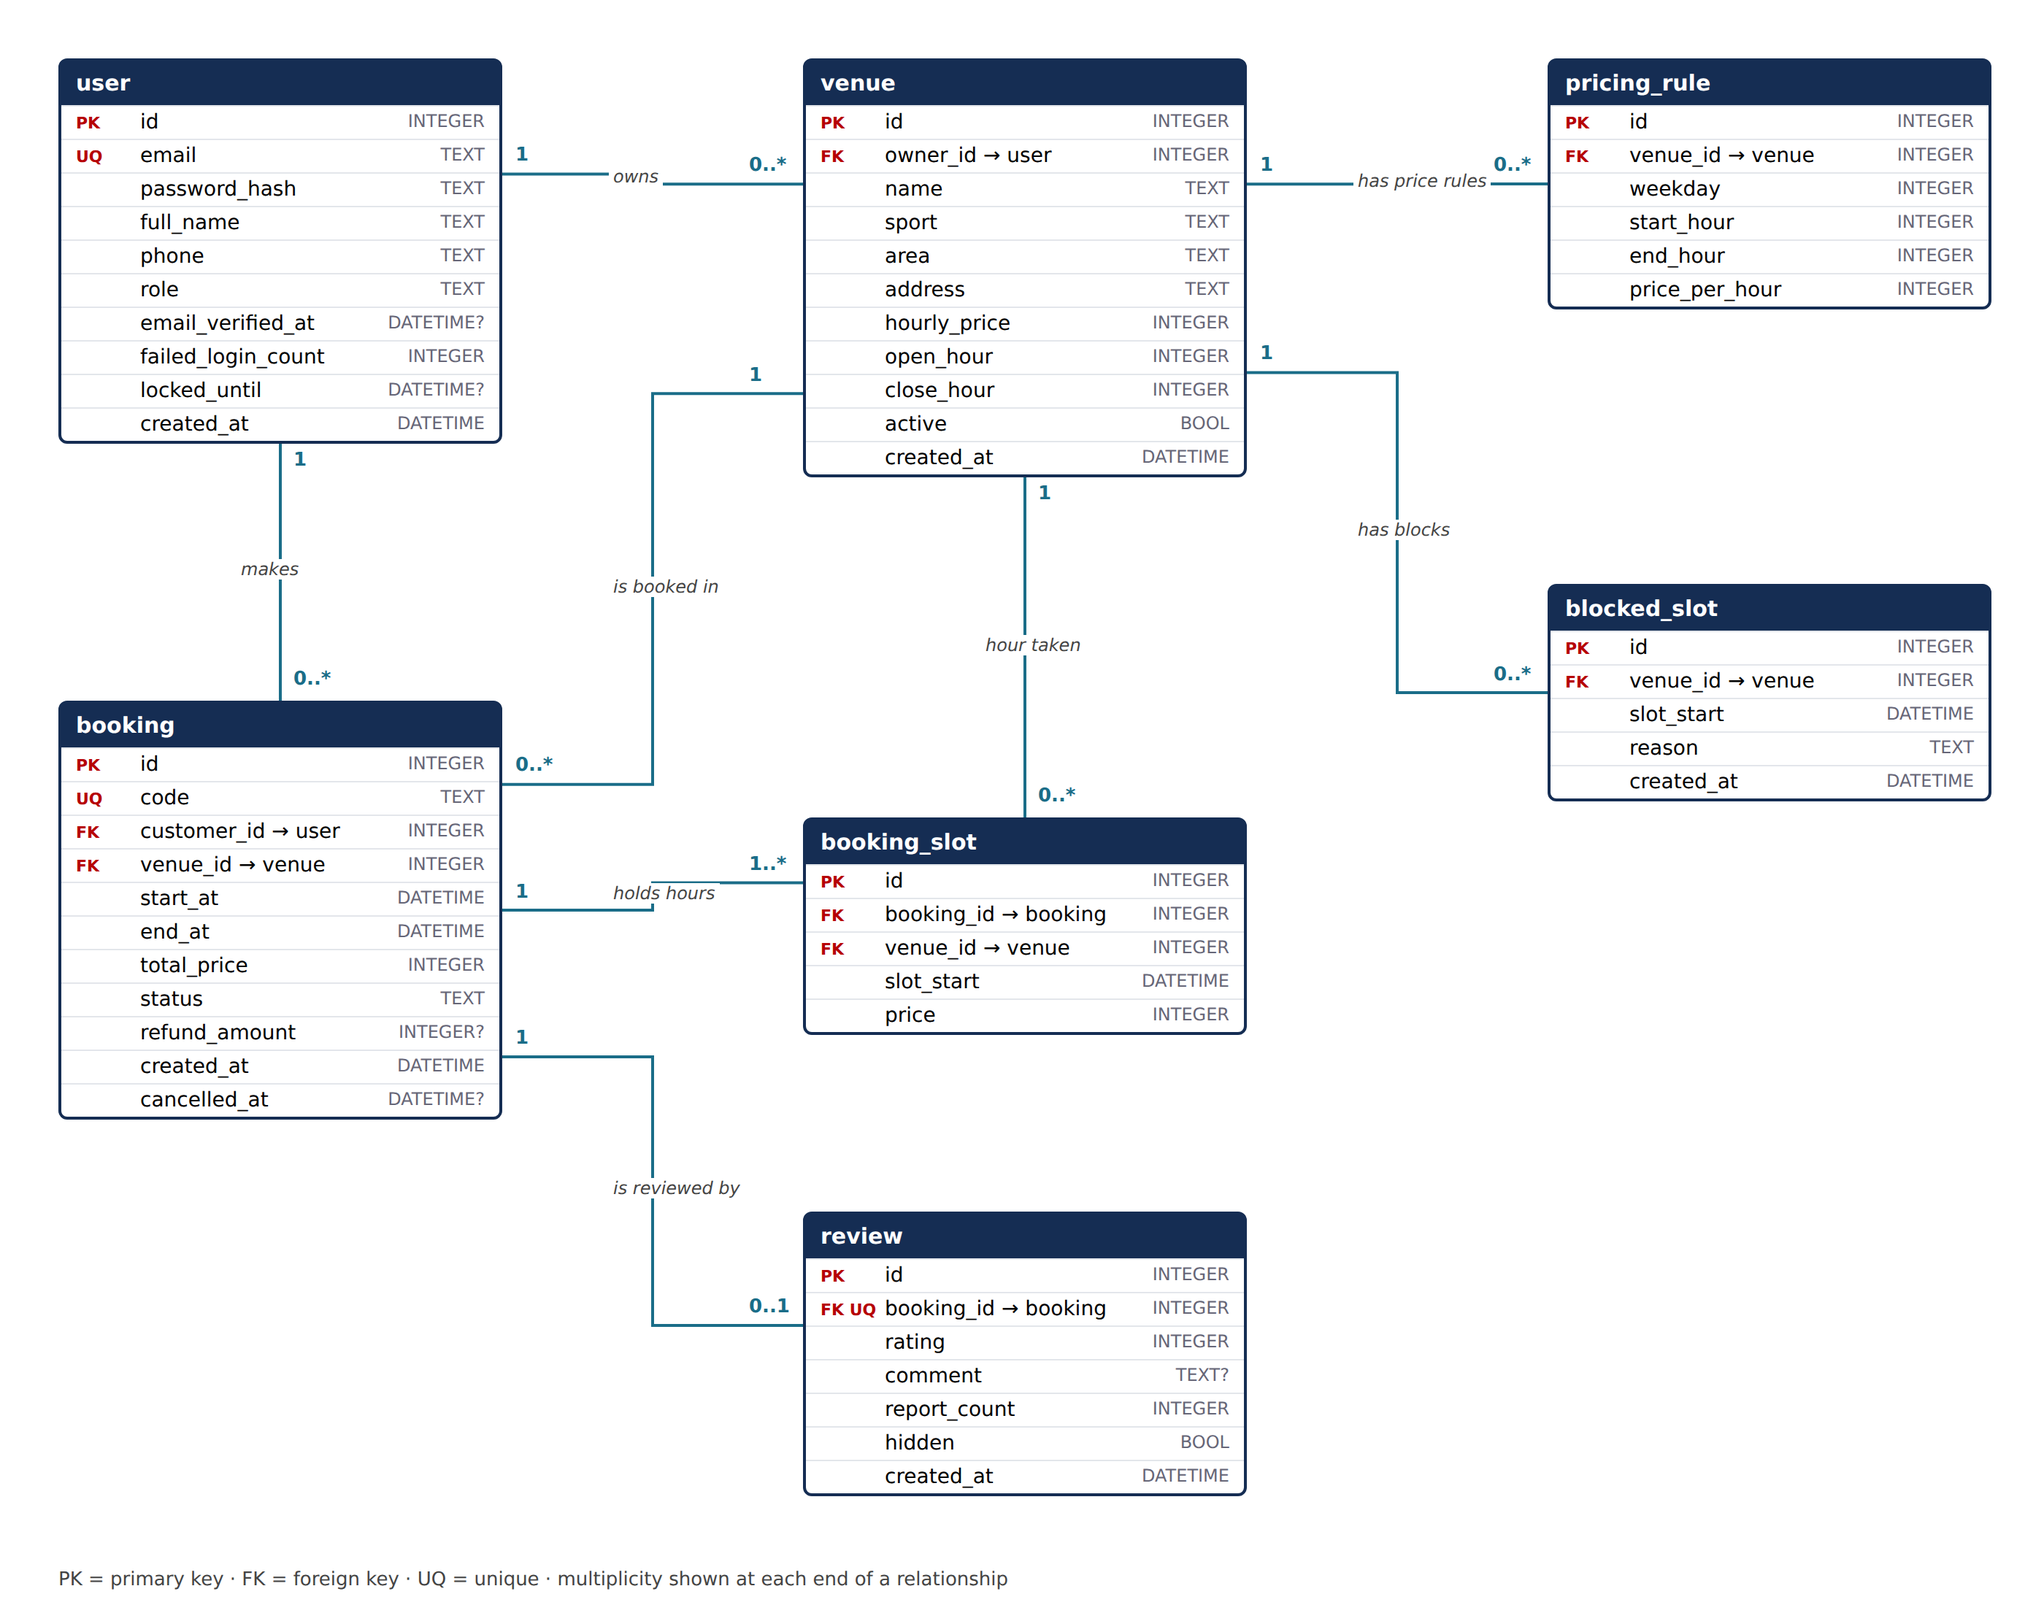
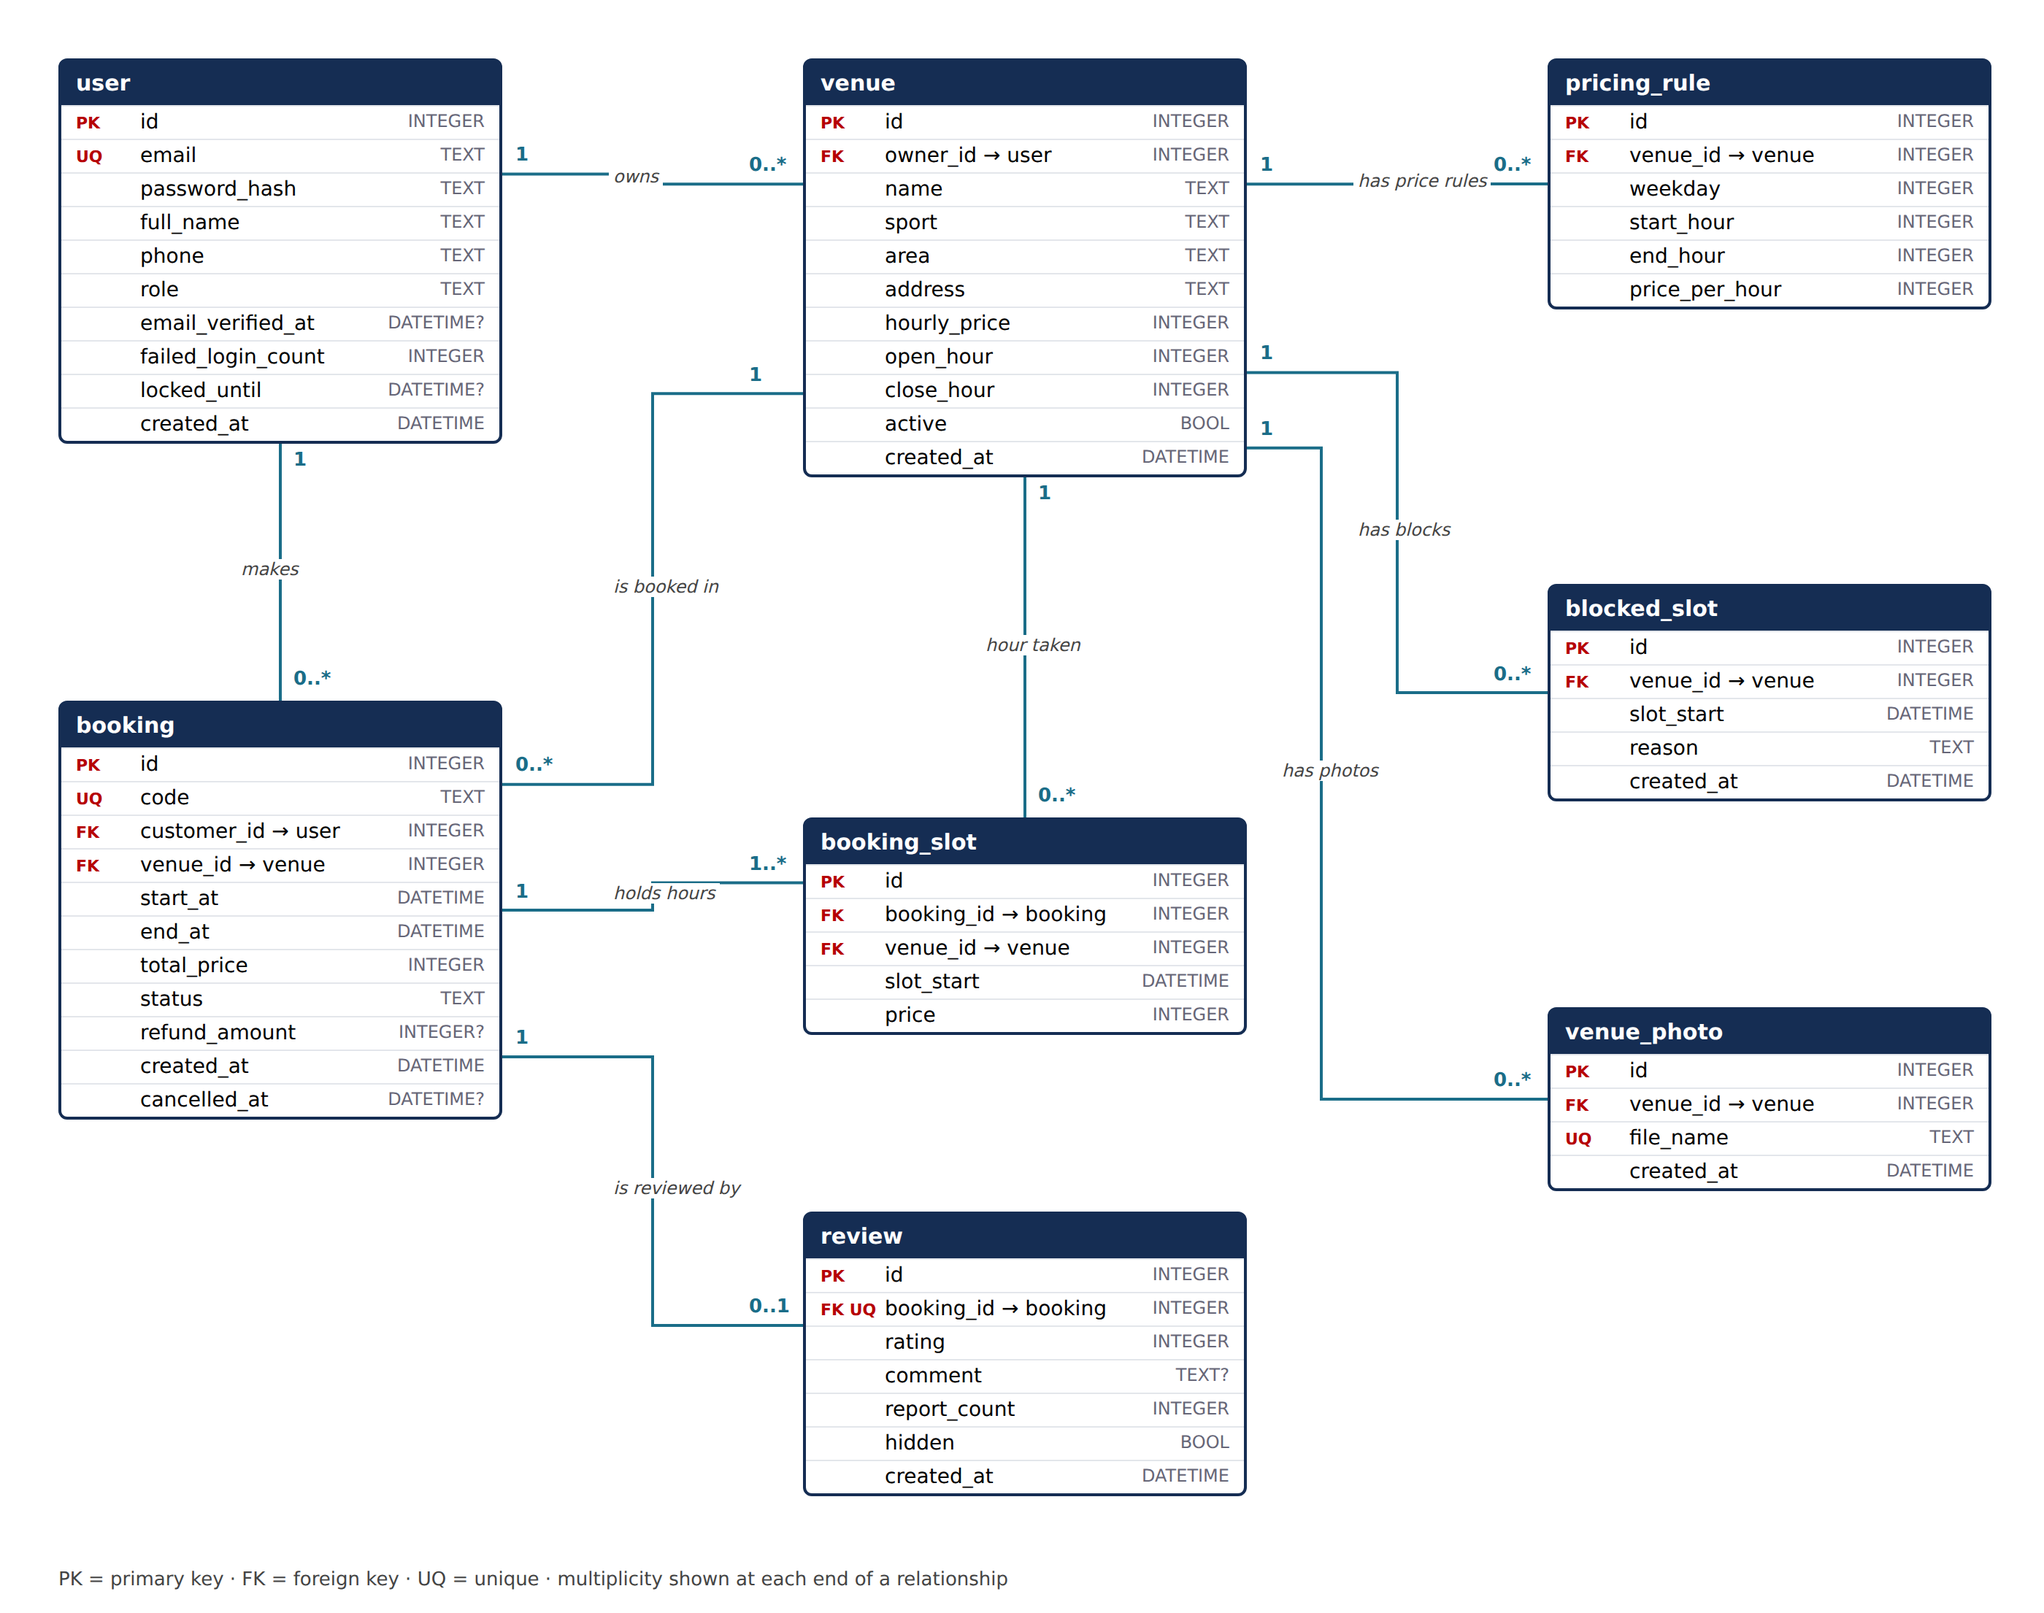
docs: update design.md for venue_photo, new endpoints and form posts
Section 1: route modules and the email stub. Section 2: venue_photo in the table, the relationships and the ERD (8 tables). Section 3: endpoints 15 and 16 and how pages post forms.

Refs #71

diff --git a/docs/design.md b/docs/design.md
@@ -30,11 +30,11 @@ clone and run it in fifteen minutes on a machine we have never seen.
 | Component       | Technology                                                                                | Where it runs           | Responsibility                                                                                                                                             |
 | --------------- | ----------------------------------------------------------------------------------------- | ----------------------- | ---------------------------------------------------------------------------------------------------------------------------------------------------------- |
 | Browser         | Any modern browser                                                                        | User's phone or laptop  | Renders HTML pages and submits forms. No business logic.                                                                                                   |
-| Flask web app   | Python 3.11+, Flask 3, Jinja2 templates - `src/app.py`                                    | Host machine, port 5000 | Routes, form parsing, session cookie (BR8), role check before every owner/admin route (BR7, BR14), renders pages, serves the JSON API under `/api`.        |
+| Flask web app   | Python 3.11+, Flask 3, Jinja2 templates - `src/app.py`, `src/routes/*.py`                 | Host machine, port 5000 | Routes, form parsing, session cookie (BR8), role check before every owner/admin route (BR7, BR14), renders pages, serves the JSON API under `/api`.        |
 | Service layer   | Plain Python modules - `src/auth.py`, `src/venues.py`, `src/booking.py`, `src/pricing.py` | Same process            | Every business rule BR1-BR19 lives here, not in routes and not in templates. Routes call it; it calls the database.                                        |
 | SQLite database | SQLite 3 via the standard `sqlite3` module - `data/venues.db`                             | A file on the host      | Stores the 7 tables of section 2. `CHECK` and `UNIQUE` constraints are the last line of defence for BR1, BR3, BR11, BR13, BR18.                            |
-| Seed script     | `src/init_db.py` + `data/venues.csv`                                                      | Run once by hand        | Creates every table and inserts 24 venues, 6 users, 5 bookings.                                                                                            |
-| Email service   | SMTP (external)                                                                           | Outside our system      | Sends the verification link (BR4). **Sprint 2: a stub that prints the link to the console;** a real SMTP account is configured in Sprint 3 through `.env`. |
+| Seed script     | `src/init_db.py` + `data/venues.csv`                                                      | Run once by hand        | Creates every table and inserts 24 venues, 7 users, 5 bookings.                                                               |
+| Email service   | SMTP (external)                                                                           | Outside our system      | Sends the verification link (BR4). **Still a stub in Sprint 3:** the link is printed to the console and shown on screen while `SHOW_VERIFICATION_LINK=1` (see `ui.md` section 4). |
 
 **What travels along each arrow**
 
@@ -48,10 +48,12 @@ clone and run it in fifteen minutes on a machine we have never seen.
 | Seed script → SQLite          | `CREATE TABLE` from `src/schema.py`, then `INSERT` rows read from `data/venues.csv`                                |
 | Service layer → Email service | An SMTP message containing the verification link (BR4)                                                             |
 
-**Sprint 2 status.** Browser, Flask app, SQLite and seed script exist and are connected
-(section 4). The service-layer modules are created one per story from Sprint 3; the only
-query in the walking skeleton lives in `src/app.py` and moves to `src/venues.py` when
-US03 is implemented.
+**Sprint 3 status.** Every component except the real email service is built. Pages live
+in `src/routes/` - one module per group of screens, each a Flask Blueprint that
+`create_app()` registers automatically - and every business rule lives in the service
+modules `src/auth.py`, `src/venues.py`, `src/booking.py` and `src/pricing.py`. A broken
+rule is raised as `BusinessRuleError` (`src/errors.py`); a page shows its message next to
+the form, and the JSON API returns it with the code from section 3.
 
 ---
 
@@ -59,7 +61,7 @@ US03 is implemented.
 
 ![Entity-relationship diagram](images/erd.png)
 
-Seven tables. Types are SQLite storage classes; `DATETIME` columns are stored as `TEXT`
+Eight tables. Types are SQLite storage classes; `DATETIME` columns are stored as `TEXT`
 in the form `YYYY-MM-DD HH:MM`, and money is always an `INTEGER` number of VND - never a
 float, so 250,000 + 150,000 is exactly 400,000 (BR12). The DDL is
 [`src/schema.py`](../src/schema.py).
@@ -68,6 +70,7 @@ float, so 250,000 + 150,000 is exactly 400,000 (BR12). The DDL is
 | -------------- | ----------------------------------------------------- | ----------------------------------------------------------------------------------------------------------------------------------------------------------------------------------------------------------------------------------------------- | ---- | ---------------------------------------------------- | ---------------------------------------------------------------------------------------------------------------------------------------------------------------------------------------------------------------------------------------------------------------------------------------------------------- |
 | `user`         | Every account: customer, venue owner or administrator | `id` INTEGER · `email` TEXT · `password_hash` TEXT · `full_name` TEXT · `phone` TEXT · `role` TEXT · `email_verified_at` DATETIME NULL · `failed_login_count` INTEGER · `locked_until` DATETIME NULL · `created_at` DATETIME                    | `id` | -                                                    | `email` UNIQUE, case-insensitive · **BR1**. `phone` CHECK 10 digits starting with 0 · **BR3**. `email_verified_at` NULL = cannot book · **BR4**. `failed_login_count`, `locked_until` · **BR5**. `role` CHECK IN (customer, owner, admin) · **BR7**                                                        |
 | `venue`        | A pitch or court that can be booked                   | `id` INTEGER · `owner_id` INTEGER · `name` TEXT · `sport` TEXT · `area` TEXT · `address` TEXT · `hourly_price` INTEGER · `open_hour` INTEGER · `close_hour` INTEGER · `active` BOOL · `created_at` DATETIME                                     | `id` | `owner_id` → `user.id`                               | `name` CHECK 3-100 characters, `hourly_price` CHECK 1,000-100,000,000 · **BR13**. `sport` CHECK IN a fixed list so search can match exactly · **BR9**. `owner_id` is what "owners act only on their own venues" is checked against · **BR14**                                                              |
+| `venue_photo`  | One photo in a venue's gallery (US04, US06)           | `id` INTEGER · `venue_id` INTEGER · `file_name` TEXT · `created_at` DATETIME                                                                                                                                                                    | `id` | `venue_id` → `venue.id`                              | `file_name` UNIQUE - the file lives in `data/uploads/` (git-ignored) under a random name, never the name the browser sent. A photo is served only under its own venue's URL, so a gallery never shows another venue's photo (US04 criterion 3). Added in Sprint 3 (`ui.md` section 4) |
 | `pricing_rule` | A peak-hour price for one venue on one weekday        | `id` INTEGER · `venue_id` INTEGER · `weekday` INTEGER · `start_hour` INTEGER · `end_hour` INTEGER · `price_per_hour` INTEGER                                                                                                                    | `id` | `venue_id` → `venue.id`                              | CHECK `start_hour < end_hour`, half-open `[start, end)` · **BR12**. "Rules must not overlap" is checked in `src/pricing.py` - SQLite has no range-exclusion constraint · **BR12**                                                                                                                          |
 | `blocked_slot` | One hour an owner has closed for maintenance          | `id` INTEGER · `venue_id` INTEGER · `slot_start` DATETIME · `reason` TEXT · `created_at` DATETIME                                                                                                                                               | `id` | `venue_id` → `venue.id`                              | UNIQUE (`venue_id`, `slot_start`); a blocked hour is excluded from search and booking · **BR16**. Blocking an hour that has a `booking_slot` row is refused in `src/booking.py` · **BR17**                                                                                                                 |
 | `booking`      | One reservation by one customer                       | `id` INTEGER · `code` TEXT · `customer_id` INTEGER · `venue_id` INTEGER · `start_at` DATETIME · `end_at` DATETIME · `total_price` INTEGER · `status` TEXT · `refund_amount` INTEGER NULL · `created_at` DATETIME · `cancelled_at` DATETIME NULL | `id` | `customer_id` → `user.id`, `venue_id` → `venue.id`   | `code` UNIQUE (e.g. `BK-000148`). `total_price` is written once at confirmation and never recalculated · **BR12**. `refund_amount` records the 100% / 50% tier · **BR15**. `customer_id` is checked on every read · **BR14**                                                                               |
@@ -84,6 +87,7 @@ float, so 250,000 + 150,000 is exactly 400,000 (BR12). The DDL is
 | `booking` holds `booking_slot`       | 1 - 1..\*    | A booking always covers at least one hour                       |
 | `venue` hour taken by `booking_slot` | 1 - 0..\*    |                                                                 |
 | `venue` has `pricing_rule`           | 1 - 0..\*    | No rule = standard `hourly_price` all day                       |
+| `venue` has `venue_photo`            | 1 - 0..\*    | A venue may have no photo yet                                   |
 | `venue` has `blocked_slot`           | 1 - 0..\*    |                                                                 |
 | `booking` is reviewed by `review`    | 1 - 0..1     | At most one review per booking (BR18)                           |
 
@@ -96,8 +100,10 @@ query), BR12 overlap of pricing rules, BR15 refund tier, BR17 (`src/booking.py`)
 
 ## 3. API design
 
-Pages are rendered by Flask; each page's data comes from, or is submitted to, the
-endpoints below. Errors return JSON `{"error": "<message>", "rule": "BR<n>"}` with the
+Pages are rendered by Flask. Since Sprint 3 a form is posted to its page's own route
+(for example `POST /register`), which calls the same service function as the endpoint
+below and shows the error next to the field; the free-hour grid on `/venues/{id}` calls
+endpoint 5 from JavaScript. Which page uses which endpoint: `ui.md` section 2. Errors return JSON `{"error": "<message>", "rule": "BR<n>"}` with the
 code listed; the message is exactly the sentence in the acceptance criterion.
 
 **Authentication:** a signed session cookie set by `POST /api/auth/login`. An endpoint
@@ -120,8 +126,11 @@ marked _customer_, _owner_ or _any user_ returns **401** without a valid session
 | 12  | GET    | `/api/owner/bookings`                  | owner    | `date` (query)                                                                | **200** bookings across the owner's venues for that day                                                     | **403** (BR14) · **400** date malformed                                                                                                                                                    | US10 #23 |
 | 13  | PUT    | `/api/owner/venues/{id}/pricing`       | owner    | list of `{weekday, start_hour, end_hour, price_per_hour}`                     | **200** rules saved                                                                                         | **403** (BR14) · **409** rules overlap (BR12) · **422** price out of range (BR13)                                                                                                          | US11 #24 |
 | 14  | POST   | `/api/bookings/{code}/review`          | customer | `rating`, `comment`                                                           | **201** `{review_id}`; venue average recalculated                                                           | **403** not your booking (BR14) · **409** already reviewed (BR18) · **422** booking not completed, rating not 1-5, comment > 1,000 characters (BR18)                                       | US12 #25 |
+| 15  | POST   | `/api/auth/logout`                     | any user | -                                                                             | **204** session ended                                                                                       | -                                                                                                                                                                                          | US02 #15 |
+| 16  | GET    | `/api/owner/venues`                    | owner    | -                                                                             | **200** the owner's own venues, newest first, with `photo_count`                                            | **401** not signed in · **403** "You do not have permission to access this page" (BR14)                                                                                                    | US06 #21 |
 
-Every P0 story (US01-US06) has at least one endpoint (rows 1-7). Rows 8-14 cover the P1
+Rows 15 and 16 were added in Sprint 3 (`ui.md` section 4). Every P0 story (US01-US06) has
+at least one endpoint (rows 1-7, 15, 16). Rows 8-14 cover the P1
 and P2 stories so Sprint 3 does not have to redesign the API.
 
 ---
